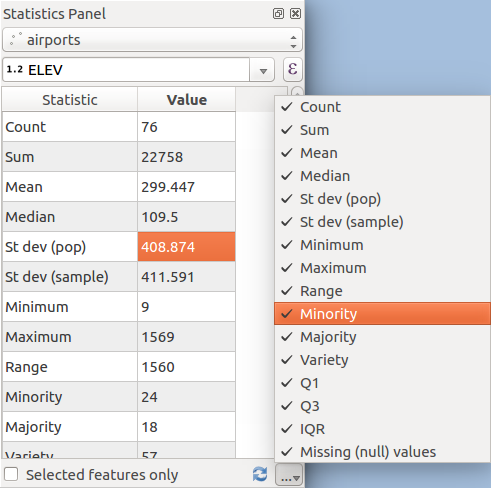
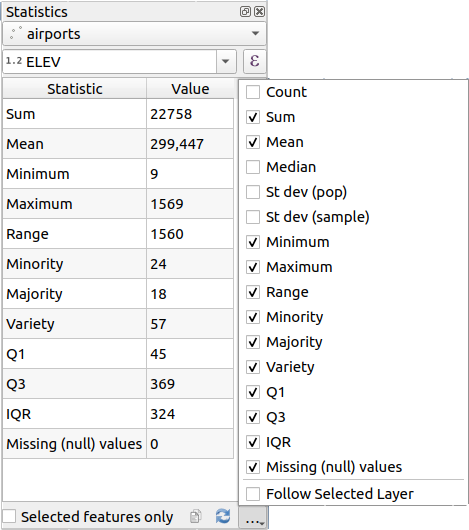
Update Statistical summary panel

diff --git a/docs/user_manual/introduction/general_tools.rst b/docs/user_manual/introduction/general_tools.rst
@@ -517,13 +517,16 @@ Statistical Summary Panel
 The :guilabel:`Statistics` panel (:kbd:`Ctrl+6`) provides summarized information
 on any vector layer. This panel allows you to select:
 
-* the vector layer to compute the statistics on
-* the column to use, or an |expression| :ref:`expression <vector_expressions>`
+* the vector layer to compute the statistics on: it can be selected
+  from the top drop-down menu, or synced with the active layer in the
+  :guilabel:`Layers` panel using the :guilabel:`Follow selected layer`
+  checkbox at the bottom of the statistics drop-down list
+* the field or |expression| :ref:`expression <vector_expressions>` to use:
+  for each layer, the last entry is remembered and automatically computed
+  upon layer reselection.
 * the statistics to return using the drop-down button at the bottom-right of the
   dialog. Depending on the field's (or expression's values) type, available
   statistics are:
-
-.. tabularcolumns:: |l|c|c|c|c|
 
 ================================== ============ ============  ============  ============
  Statistics                         String       Integer       Float         Date
@@ -553,10 +556,10 @@ Table: Statistics available for each field type
 
 The statistical summary can be:
 
-* returned for the whole layer or |checkbox| :guilabel:`selected features only`
+* returned for the whole layer or |checkbox| :guilabel:`Selected features only`
+* |editCopy| copied to the clipboard and pasted as a table in another application
 * recalculated using the |refresh| button when the underlying data source changes
   (eg, new or removed features/fields, attribute modification)
-* |editCopy| copied to the clipboard and pasted as a table in another application
 
 .. _figure_statistical_summary:
 
